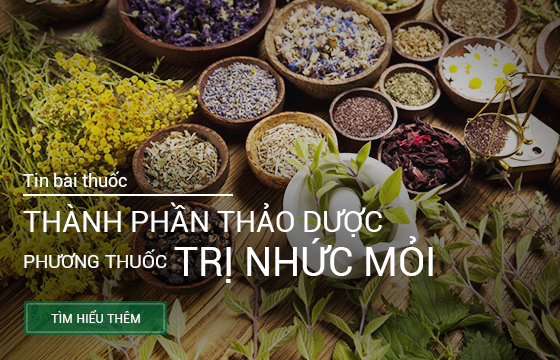
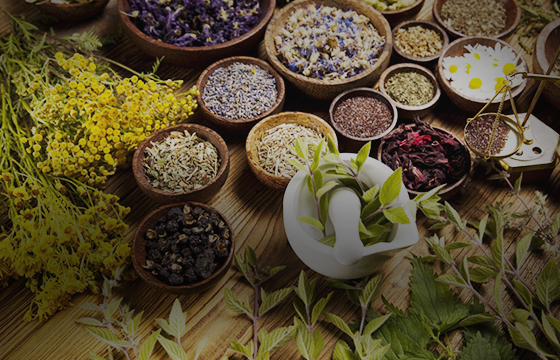
tin tuc

Changed region(s): [[0.0304, 0.4583, 0.7893, 0.7944], [0.0304, 0.825, 0.3036, 0.9472]]

diff --git a/source/public/assets/frontend/css/style_herbs.css b/source/public/assets/frontend/css/style_herbs.css
@@ -1046,6 +1046,41 @@ hr {
     float: left;
     width: 100%;
 }
+.caption-slide-home{
+    float: left;
+    left: 15px;
+    bottom: 0;
+    text-align: left;
+    right: 5px;
+}
+.caption-slide-home hr{
+    border-top: 1.5px solid #fff;
+    width: 50%;
+    float: left;
+}
+.caption-slide-home a{
+    float: left;
+    width: 135px;
+    height: 30px;
+    margin-top: 15px;
+}
+.caption-slide-home a img{
+    width: 143px;
+    height: 34px !important;
+}
+.caption-slide-home a img:hover{
+    opacity:0.7;
+}
+.caption-slide-home p{
+    font-size: 17px;
+}
+.caption-slide-home h4{
+    line-height: 28px;
+    font-size: 22px;
+    float: left;
+    margin-top: 0px;
+    width: 100%;
+}
 .content-cay .ten-cay{
     margin-top: 0px;
     color: #6fa001;

diff --git a/source/resources/views/frontend/footer.blade.php b/source/resources/views/frontend/footer.blade.php
@@ -7,7 +7,7 @@
             <div class="item active item-herbs">
                 <div class="col-md-3 col-sm-4 col-xs-12">
                     <div class="cover-media">
-                        <iframe width="100%" height="220" src="//www.youtube.com/embed/ZhNsnqmnKBQ" frameborder="0" allowfullscreen></iframe>
+                        <iframe width="100%" height="220" src="https://www.youtube.com/embed/ZhNsnqmnKBQ" frameborder="0" allowfullscreen></iframe>
                     </div>
                     <a class="title-slide" href="#">mantra herbal từ herbs</a>
                     <span>30/04/2017</span>
@@ -15,7 +15,61 @@
                     <p>Lorem ipsum dolor sit amet, consectetur adipiscing elit, sed do eiusmod tempor incididunt ut labore et dolore magna aliqua...</p>
                 </div>
             </div>
-
+            <div class="item item-herbs">
+                <div class="col-md-3 col-sm-4 col-xs-12">
+                    <div class="cover-media">
+                        <iframe width="100%" height="220" src="https://www.youtube.com/embed/ZhNsnqmnKBQ" frameborder="0" allowfullscreen></iframe>
+                    </div>
+                    <a class="title-slide" href="#">mantra herbal từ herbs</a>
+                    <span>30/04/2017</span>
+                    <hr class="hr-line">
+                    <p>Lorem ipsum dolor sit amet, consectetur adipiscing elit, sed do eiusmod tempor incididunt ut labore et dolore magna aliqua. Ut enim ad minim veniam...</p>
+                </div>
+            </div>
+            <div class="item item-herbs">
+                <div class="col-md-3 col-sm-4 col-xs-12">
+                    <div class="cover-media">
+                        <iframe width="100%" height="220" src="https://www.youtube.com/embed/ZhNsnqmnKBQ" frameborder="0" allowfullscreen></iframe>
+                    </div>
+                    <a class="title-slide" href="#">mantra herbal từ herbs</a>
+                    <span>30/04/2017</span>
+                    <hr class="hr-line">
+                    <p>Lorem ipsum dolor sit amet, consectetur adipiscing elit, sed do eiusmod tempor incididunt ut labore et dolore magna aliqua. Ut enim ad minim veniam...</p>
+                </div>
+            </div>
+            <div class="item item-herbs">
+                <div class="col-md-3 col-sm-4 col-xs-12">
+                    <div class="cover-media">
+                        <iframe width="100%" height="220" src="https://www.youtube.com/embed/ZhNsnqmnKBQ" frameborder="0" allowfullscreen></iframe>
+                    </div>
+                    <a class="title-slide" href="#">mantra herbal từ herbs</a>
+                    <span>30/04/2017</span>
+                    <hr class="hr-line">
+                    <p>Lorem ipsum dolor sit amet, consectetur adipiscing elit, sed do eiusmod tempor incididunt ut labore et dolore magna aliqua. Ut enim ad minim veniam...</p>
+                </div>
+            </div>
+            <div class="item item-herbs">
+                <div class="col-md-3 col-sm-4 col-xs-12">
+                    <div class="cover-media">
+                        <iframe width="100%" height="220" src="https://www.youtube.com/embed/ZhNsnqmnKBQ" frameborder="0" allowfullscreen></iframe>
+                    </div>
+                    <a class="title-slide" href="#">mantra herbal từ herbs</a>
+                    <span>30/04/2017</span>
+                    <hr class="hr-line">
+                    <p>Lorem ipsum dolor sit amet, consectetur adipiscing elit, sed do eiusmod tempor incididunt ut labore et dolore magna aliqua. Ut enim ad minim veniam...</p>
+                </div>
+            </div>
+            <div class="item item-herbs">
+                <div class="col-md-3 col-sm-4 col-xs-12">
+                    <div class="cover-media">
+                        <iframe width="100%" height="220" src="https://www.youtube.com/embed/ZhNsnqmnKBQ" frameborder="0" allowfullscreen></iframe>
+                    </div>
+                    <a class="title-slide" href="#">mantra herbal từ herbs</a>
+                    <span>30/04/2017</span>
+                    <hr class="hr-line">
+                    <p>Lorem ipsum dolor sit amet, consectetur adipiscing elit, sed do eiusmod tempor incididunt ut labore et dolore magna aliqua. Ut enim ad minim veniam...</p>
+                </div>
+            </div>
         </div>
         <a class="left carousel-control" href="#fruitscarousel2" data-slide="prev"><img src="{{ url('assets/frontend/images/arrow-left.png')}}"/></a>
         <a class="right carousel-control" href="#fruitscarousel2" data-slide="next"><img src="{{ url('assets/frontend/images/arrow-right.png')}}"/></a>

diff --git a/source/resources/views/frontend/home.blade.php b/source/resources/views/frontend/home.blade.php
@@ -15,20 +15,29 @@
                         <div class="carousel-inner" role="listbox">
                             <div class="item active">
                                 <img class="img-responsive"  src="{{ url('assets/frontend/images/slider/img01.png')}}" alt="...">
-                                <div class="carousel-caption">
-                                    <h4></h4>
+                                <div class="carousel-caption caption-slide-home">
+                                    <p>Tin bài thuốc</p>
+                                    <hr>
+                                    <h4>THÀNH PHẦN THẢO DƯỢC PHƯƠNG THỨC TRỊ NHỨC MỎI</h4>
+                                    <a href="#"><img src="{{ url('assets/frontend/images/see-more.png')}}"/></a>
                                 </div>
                             </div>
                             <div class="item">
                                 <img class="img-responsive" src="{{ url('assets/frontend/images/slider/img01.png')}}" alt="...">
-                                <div class="carousel-caption">
-                                    <h4></h4>
+                                <div class="carousel-caption caption-slide-home">
+                                    <p>Tin bài thuốc</p>
+                                    <hr>
+                                    <h4>THÀNH PHẦN THẢO DƯỢC PHƯƠNG THỨC TRỊ NHỨC MỎI</h4>
+                                    <a href="#"><img src="{{ url('assets/frontend/images/see-more.png')}}"/></a>
                                 </div>
                             </div>
                             <div class="item">
                                 <img class="img-responsive" src="{{ url('assets/frontend/images/slider/img01.png')}}" alt="...">
-                                <div class="carousel-caption">
-                                    <h4></h4>
+                                <div class="carousel-caption caption-slide-home">
+                                    <p>Tin bài thuốc</p>
+                                    <hr>
+                                    <h4>THÀNH PHẦN THẢO DƯỢC PHƯƠNG THỨC TRỊ NHỨC MỎI</h4>
+                                    <a href="#"><img src="{{ url('assets/frontend/images/see-more.png')}}"/></a>
                                 </div>
                             </div>
                         </div>
